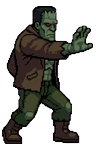
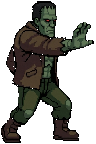
fix(pitchforks): swap casting pose to 3/4-turn dynamic art, re-anchor hand_tip
Jon flagged candidate-1-pro.jpg's raised-hand panel as front-facing/safe.
Replaced frankenstein_casting.png source with candidate-2-turn-right.jpg
panel 4 (full profile turn, arm extended, palm forward) through the same
_key_fit_palette_lock pipeline (magenta key, dominant-bbox crop, NEAREST
fit, idle-sprite palette lock). Re-measured hand_tip anchor for the new
pose: (77, 38), palm centroid of the new hand cluster. Verified live:
bolt originates cleanly from the palm at every charge/strike state, no
forehead or fingertip-edge origin.

Claude-Session: https://claude.ai/code/session_014YRkuYwUpruR8zxQtkS5Y1

Changed region(s): [[0.0, 0.0, 1.0, 1.0]]

diff --git a/src/components/PitchDefender/PitchforksIII.tsx b/src/components/PitchDefender/PitchforksIII.tsx
@@ -2010,8 +2010,8 @@ function buildArtReviewRuntime(
     key: `${focus.id}:${focus.burned}`,
   }
   if (storm === 'spent') {
-    const pivotX = FRANK_X + assets.frankMeta.hand_tip.x * FRANK_SPRITE_SCALE
-    const pivotY = FRANK_Y + assets.frankMeta.hand_tip.y * FRANK_SPRITE_SCALE
+    const pivotX = FRANK_X + (assets.frankMeta.hand_tip ?? { x: 28, y: 10 }).x * FRANK_SPRITE_SCALE
+    const pivotY = FRANK_Y + (assets.frankMeta.hand_tip ?? { x: 28, y: 10 }).y * FRANK_SPRITE_SCALE
     const target = thunderheadTargetPoint(active, assets)
     runtime.bolts = [{
       fromX: pivotX + FRANK_CLOUD_X_OFFSET,
@@ -2710,8 +2710,8 @@ function drawStormCloudView(ctx: CanvasRenderingContext2D, view: ViewState, asse
   if (bolt?.presentation === 'thunderhead' || thunderheadLifecycleActive) return
   const charge = view.charge.progress
   if (view.phase !== 'playing' || (!view.active && !bolt)) return
-  const pivotX = FRANK_X + assets.frankMeta.hand_tip.x * FRANK_SPRITE_SCALE
-  const pivotY = FRANK_Y + assets.frankMeta.hand_tip.y * FRANK_SPRITE_SCALE
+  const pivotX = FRANK_X + (assets.frankMeta.hand_tip ?? { x: 28, y: 10 }).x * FRANK_SPRITE_SCALE
+  const pivotY = FRANK_Y + (assets.frankMeta.hand_tip ?? { x: 28, y: 10 }).y * FRANK_SPRITE_SCALE
   const cloudX = bolt?.fromX ?? pivotX + FRANK_CLOUD_X_OFFSET
   const cloudY = bolt?.fromY ?? FRANK_CLOUD_Y
   const boltAge = bolt ? clamp(bolt.life / bolt.maxLife, 0, 1) : 0
@@ -2961,8 +2961,8 @@ function drawChargeArcView(ctx: CanvasRenderingContext2D, view: ViewState, asset
   const rawY = villager.y + tine.y * SPRITE_SCALE
   const target = rotateAroundPivot(rawX, rawY, forkPivotX, forkPivotY, FORK_LEAN_DEG)
 
-  const pivotX = FRANK_X + assets.frankMeta.hand_tip.x * FRANK_SPRITE_SCALE
-  const pivotY = FRANK_Y + assets.frankMeta.hand_tip.y * FRANK_SPRITE_SCALE
+  const pivotX = FRANK_X + (assets.frankMeta.hand_tip ?? { x: 28, y: 10 }).x * FRANK_SPRITE_SCALE
+  const pivotY = FRANK_Y + (assets.frankMeta.hand_tip ?? { x: 28, y: 10 }).y * FRANK_SPRITE_SCALE
   const originX = pivotX + CIRCUIT_RELAY_X
   const originY = pivotY + CIRCUIT_RELAY_Y
   const dischargeProgress = clamp((progress - CHARGE_DISCHARGE_START) / (1 - CHARGE_DISCHARGE_START), 0, 1)
@@ -6990,7 +6990,7 @@ export default function PitchforksIII() {
         : thunderheadPhase === 'target_match' || thunderheadPhase === 'strike' || thunderheadPhase === 'consumed'
           ? 1
           : 0
-      const thunderheadTravelStart = thunderheadTravelStartRef.current ?? { x: FRANK_X + assetsRef.current.frankMeta.hand_tip.x * FRANK_SPRITE_SCALE + FRANK_CLOUD_X_OFFSET + THUNDERHEAD_BANK_X_OFFSET, y: FRANK_CLOUD_Y }
+      const thunderheadTravelStart = thunderheadTravelStartRef.current ?? { x: FRANK_X + (assetsRef.current.frankMeta.hand_tip ?? { x: 28, y: 10 }).x * FRANK_SPRITE_SCALE + FRANK_CLOUD_X_OFFSET + THUNDERHEAD_BANK_X_OFFSET, y: FRANK_CLOUD_Y }
       const thunderheadTravelTarget = thunderheadTravelTargetRef.current ?? thunderheadTravelStart
       const thunderheadPosition = getPitchforksThunderheadPathPosition(thunderheadTravelStart, thunderheadTravelTarget.x, thunderheadTravelProgress) ?? thunderheadTravelStart
       const thunderheadCloudX = thunderheadPosition.x
@@ -7535,8 +7535,8 @@ export default function PitchforksIII() {
     const frankMeta = a.frankMeta
     const vMeta = a.villagerMeta[villager.totalTines]
     const tine = vMeta.tines[Math.max(0, Math.min(tineIndex, vMeta.tines.length - 1))]
-    const pivotX = FRANK_X + frankMeta.hand_tip.x * FRANK_SPRITE_SCALE
-    const pivotY = FRANK_Y + frankMeta.hand_tip.y * FRANK_SPRITE_SCALE
+    const pivotX = FRANK_X + (frankMeta.hand_tip ?? { x: 28, y: 10 }).x * FRANK_SPRITE_SCALE
+    const pivotY = FRANK_Y + (frankMeta.hand_tip ?? { x: 28, y: 10 }).y * FRANK_SPRITE_SCALE
     const forkPivotX = villager.x + (vMeta.frame_w - vMeta.fork_base.x) * SPRITE_SCALE
     const forkPivotY = villager.y + vMeta.fork_base.y * SPRITE_SCALE
     const rawToX = villager.x + (vMeta.frame_w - tine.x) * SPRITE_SCALE
@@ -7725,7 +7725,7 @@ export default function PitchforksIII() {
     thunderheadTravelStartedAtRef.current = 0
     const frankMeta = assetsRef.current.frankMeta
     const start = Object.freeze({
-      x: FRANK_X + frankMeta.hand_tip.x * FRANK_SPRITE_SCALE + FRANK_CLOUD_X_OFFSET + THUNDERHEAD_BANK_X_OFFSET,
+      x: FRANK_X + (frankMeta.hand_tip ?? { x: 28, y: 10 }).x * FRANK_SPRITE_SCALE + FRANK_CLOUD_X_OFFSET + THUNDERHEAD_BANK_X_OFFSET,
       y: FRANK_CLOUD_Y,
     })
     const targetPoint = thunderheadTargetPoint(target, assetsRef.current)
@@ -8301,7 +8301,7 @@ export default function PitchforksIII() {
         cancelThunderhead(matched.reason)
         return
       }
-      const start = thunderheadTravelStartRef.current ?? { x: FRANK_X + assetsRef.current.frankMeta.hand_tip.x * FRANK_SPRITE_SCALE + FRANK_CLOUD_X_OFFSET + THUNDERHEAD_BANK_X_OFFSET, y: FRANK_CLOUD_Y }
+      const start = thunderheadTravelStartRef.current ?? { x: FRANK_X + (assetsRef.current.frankMeta.hand_tip ?? { x: 28, y: 10 }).x * FRANK_SPRITE_SCALE + FRANK_CLOUD_X_OFFSET + THUNDERHEAD_BANK_X_OFFSET, y: FRANK_CLOUD_Y }
       const targetPoint = thunderheadTravelTargetRef.current ?? { x: start.x, y: THUNDERHEAD_CEILING_Y }
       thunderheadStrikeOriginRef.current = Object.freeze({ x: targetPoint.x, y: targetPoint.y })
       thunderheadMatchDueAtRef.current = logicalNowMs + THUNDERHEAD_MATCH_SETTLE_MS
